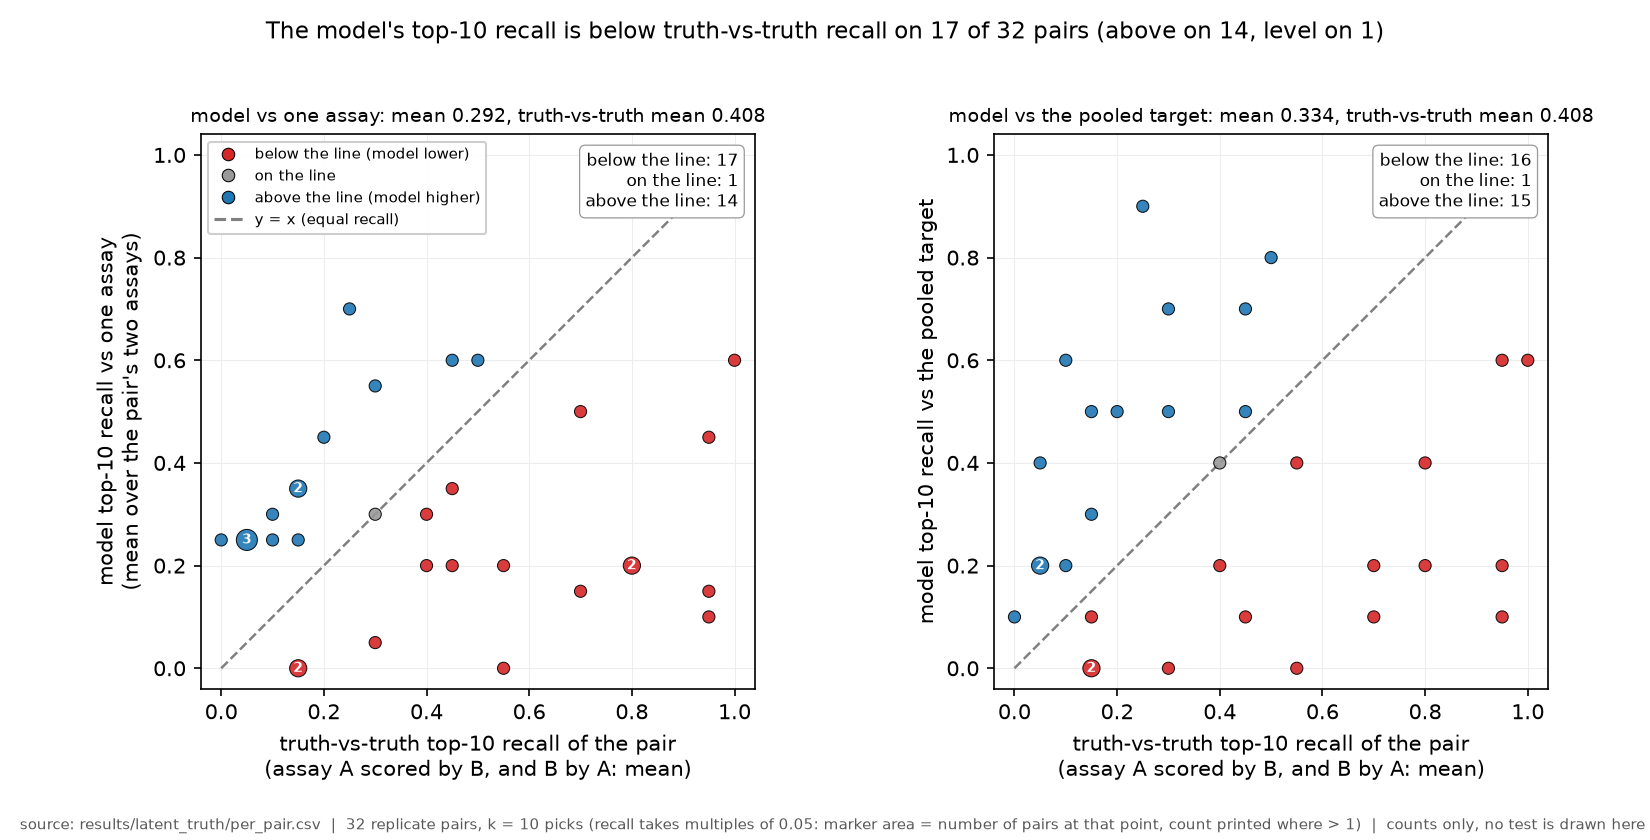
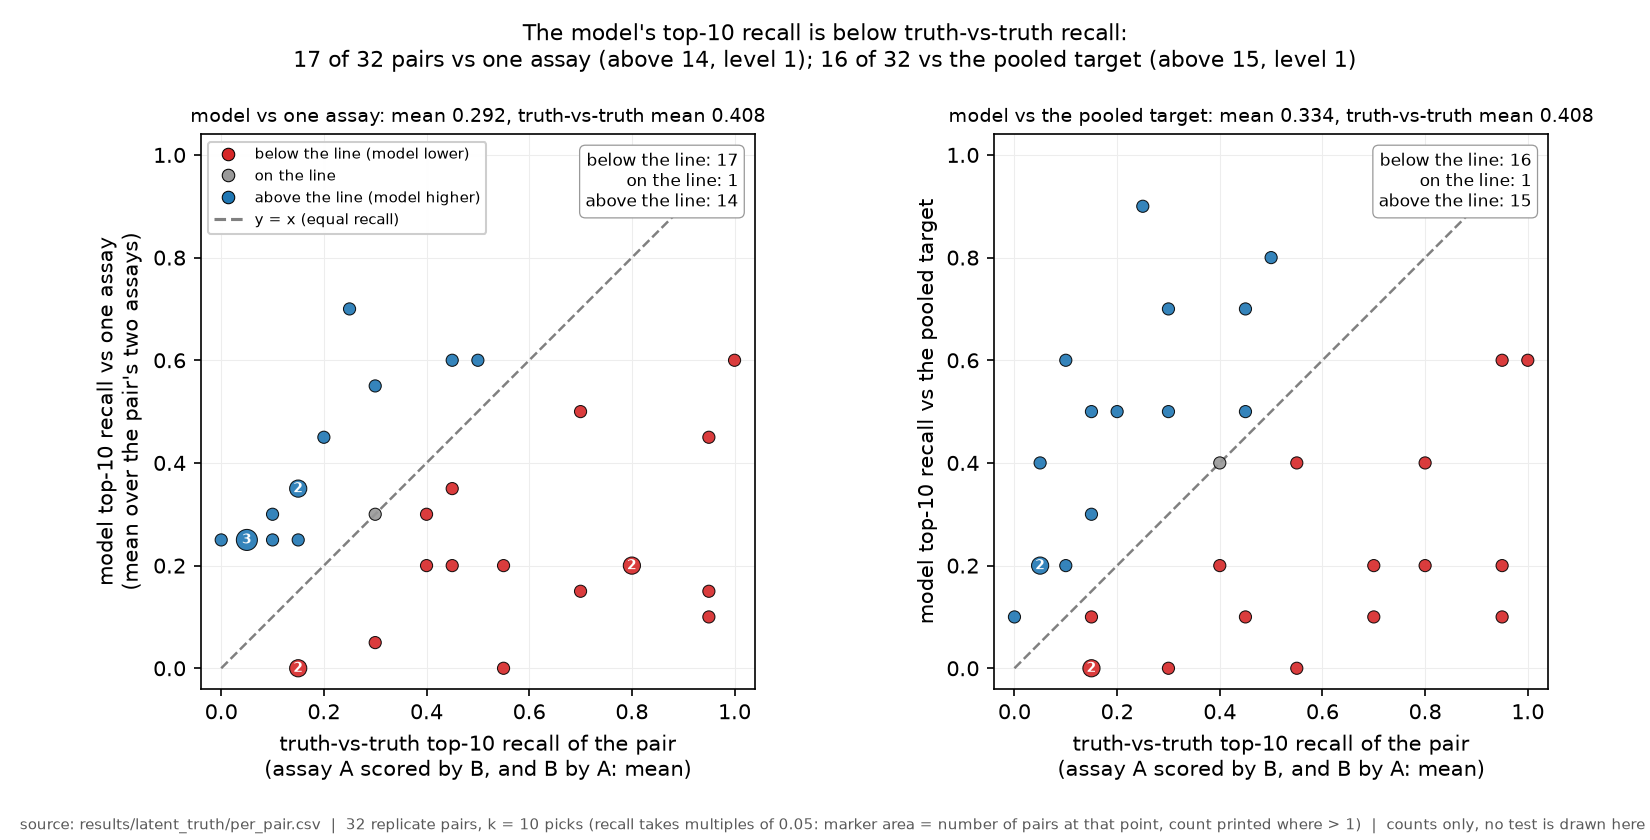
State both panels' counts in the ceiling title
Vision review of all figures (view_image -> Opus 5.5). The suptitle quoted the
left panel's counts (17 below / 14 above / 1 level of 32) while the right panel
shows 16 / 15 / 1 against the pooled target. A reader had no way to tell which
panel the sentence described, so the title now gives both, labelled.

Counts re-read from results/latent_truth/summary.json rather than retyped.

Changed region(s): [[0.1545, 0.031, 0.8345, 0.0929]]

diff --git a/scripts/make_figures.py b/scripts/make_figures.py
@@ -605,9 +605,14 @@ def fig_model_vs_ceiling():
     ]
     a1.legend(handles=handles, loc="upper left", fontsize=7, framealpha=0.95)
     s = d["single"]
-    fig.suptitle(f"The model's top-10 recall is below truth-vs-truth recall on "
-                 f"{s['below']} of {d['n']} pairs (above on {s['above']}, level "
-                 f"on {s['on']})", fontsize=11, x=0.5, y=0.975)
+    sp = d["pooled"]
+    # Wording (2026-11-15): this quoted only the left panel's counts while the
+    # right panel shows different ones, so a reader could not tell which panel
+    # the sentence described. Name both.
+    fig.suptitle(f"The model's top-10 recall is below truth-vs-truth recall:\n"
+                 f"{s['below']} of {d['n']} pairs vs one assay (above {s['above']}, "
+                 f"level {s['on']}); {sp['below']} of {d['n']} vs the pooled target "
+                 f"(above {sp['above']}, level {sp['on']})", fontsize=10.5, x=0.5, y=0.975)
     _source_note(fig, f"source: results/latent_truth/per_pair.csv  |  {d['n']} "
                       "replicate pairs, k = 10 picks (recall takes multiples of "
                       "0.05: marker area = number of pairs at that point, count "
